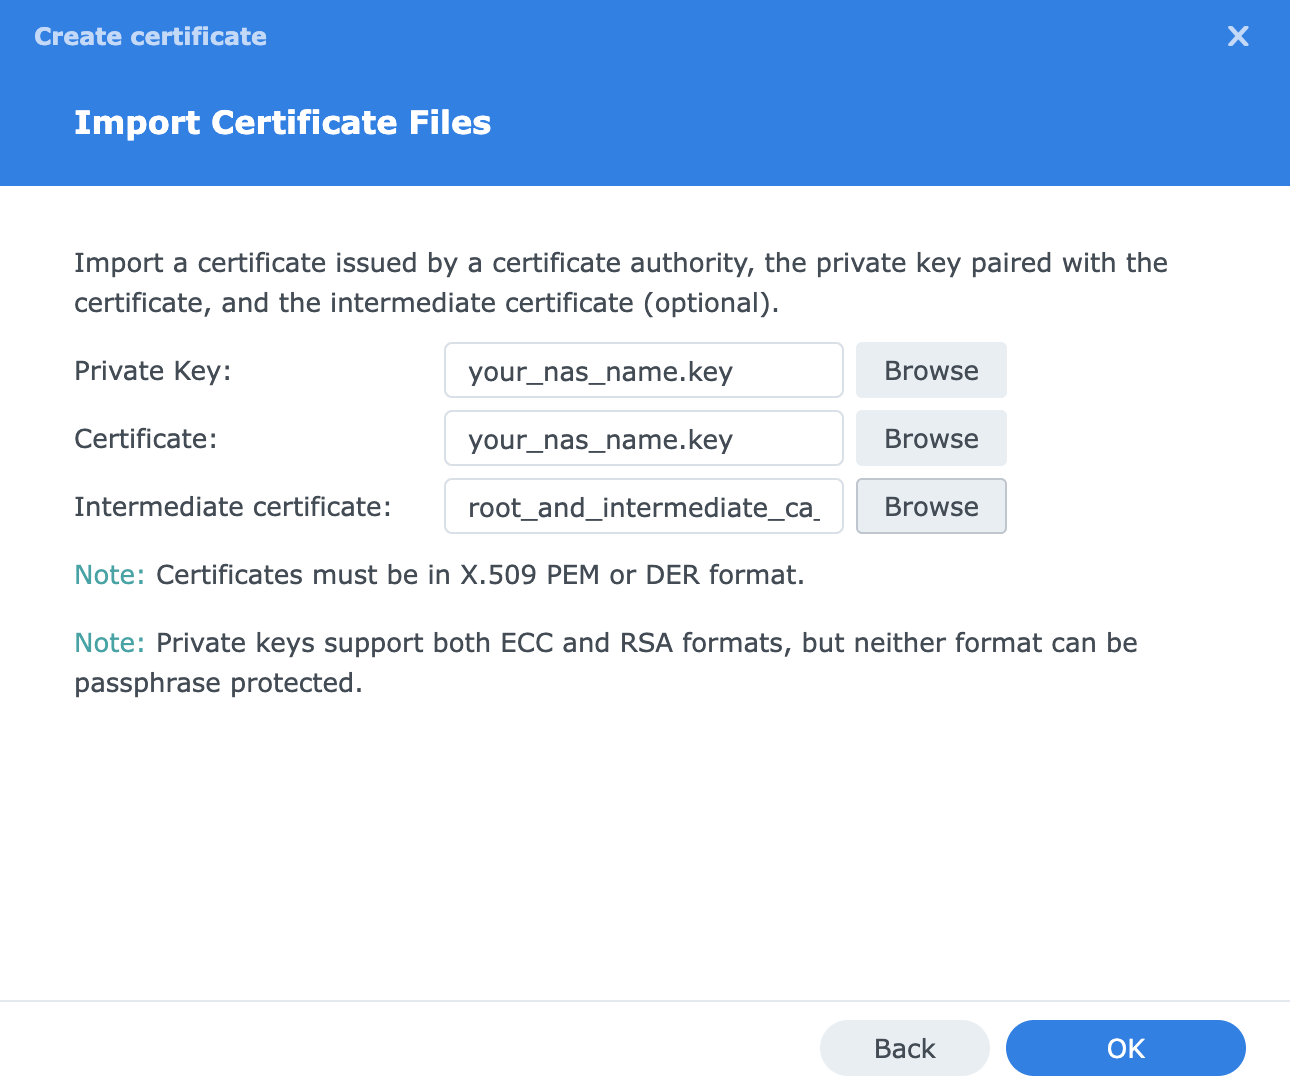
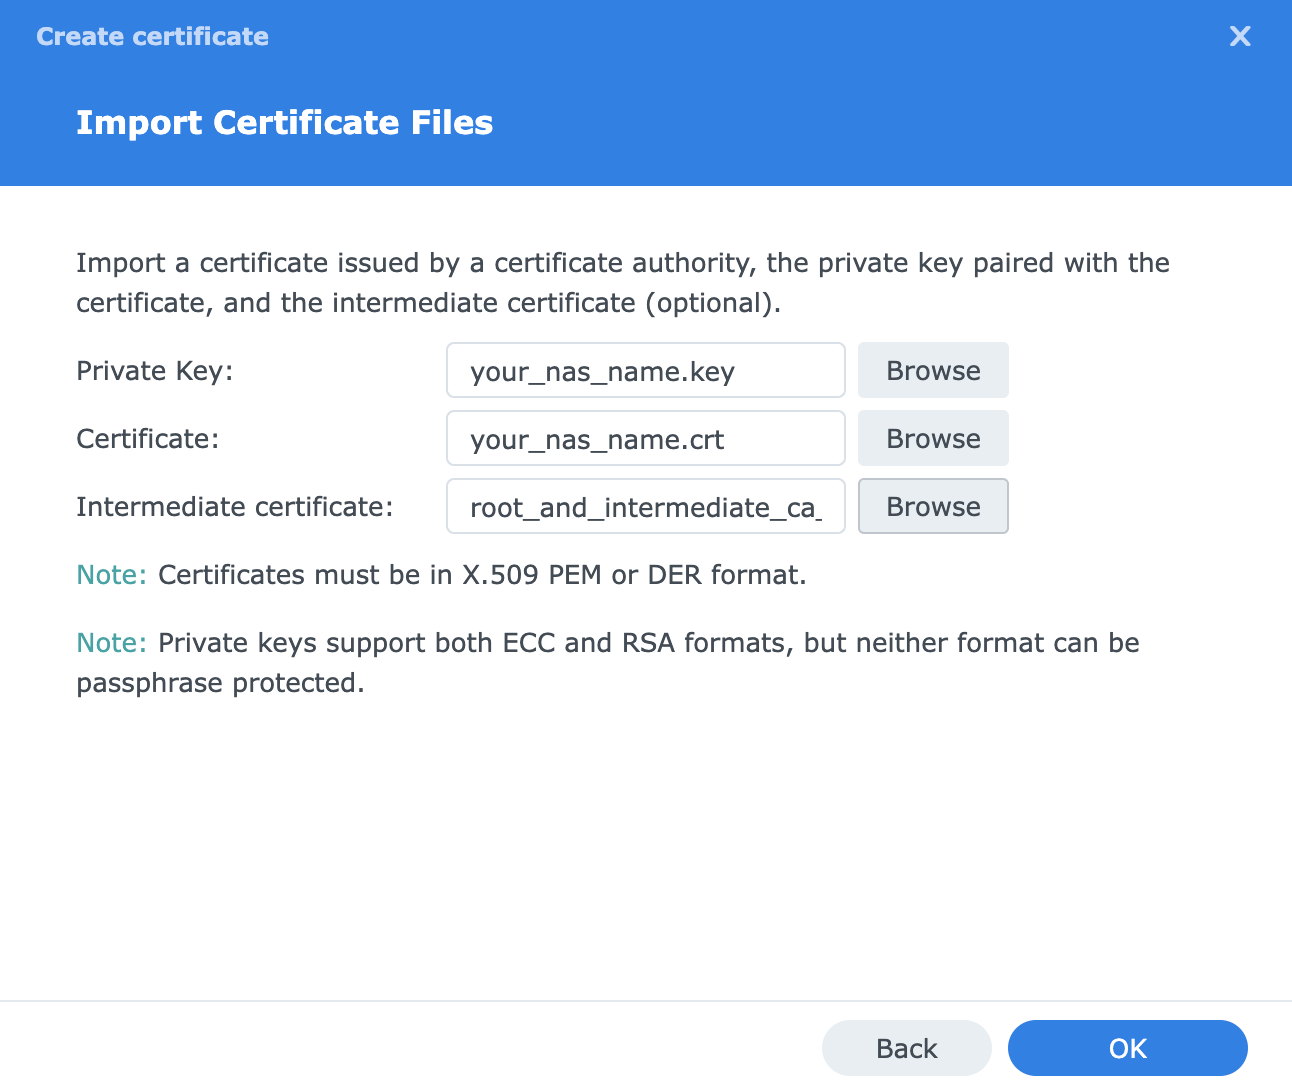
Add SRM, remove .DS_Store

diff --git a/HTTPS on Synology DSM/readme.md b/HTTPS on Synology DSM/readme.md
@@ -6,6 +6,8 @@ The process is fairly straightforward, but there are a couple of pitfalls here &
 
 In this guide we are not going to configure an ACME server or anything like that, but rather an offline container which just signs URLs. If the container dies, HTTPS will still work. If the NAS gets disconnected, HTTPS will still work. It's just the simplest, so we are not leveraging the full capabilities of the Certificate Authority, but just going for a basic configuration.
 
+As a bonus step, there is also a final note on how to configure https on your SRM 1.2.x too (e.g. Synology rt2600ac). Be aware that the next SRM (1.3, the one rt6600ax is based on) might be different (and actually more flexible).
+
 Before starting
 ---------------
 This guide need you to have basic proficiency in a couple of areas:
@@ -27,7 +29,7 @@ This is the overview of the steps:
  4) Import the certificates in DSM and **update the 'system default' item under settings**
  5) Install `root_ca.crt` on all the devices in your network
  6) Profit!
-
+ 7) Bonus step: https on SRM 1.2.5
 
 Step 1 - Bootstrap your `step-ca` container
 -------------------------------------------
@@ -162,3 +164,27 @@ Here it goes, you should have the beloved lock in your browser now!
 ![alt text](images/profit.png)
 
 As well, quickconnect should also be still working using Let's Encrypt certificates (or whatever you configured).
+
+
+Step 7 - Configure SRM for https
+--------------------------------
+
+SRM 1.2.5 is a bit more basic compared to DSM in term of flexibility: it doesn't allow multiple certificates and it doesn't support ECC (but rather RSA).
+
+Enter your step-ca container, and this is the command adapted to generate RSA certificates:
+```
+step ca certificate "router.lan" router.crt router.key --ca-url https://localhost:9000 --root /home/step/certs/root_ca.crt --not-after 8766h --kty RSA
+```
+
+I won't go in the single steps, it's just the exact same from above, except for the added parameter **--kty RSA**.
+
+In the control panel, the certificate tab is under Services:
+![alt text](images/srm-add-certificate-1.png)
+
+Import a certificate and fill as you did previously:
+![alt text](images/srm-add-certificate-2.png)
+
+The login page is under System -> SRM settings, change settings to your will:
+![alt text](images/srm-ui-redirect.png)
+
+Note: quickconnect will keep working as intented, but **I'm not sure about DDNS**, since I don't really use it anymore.
